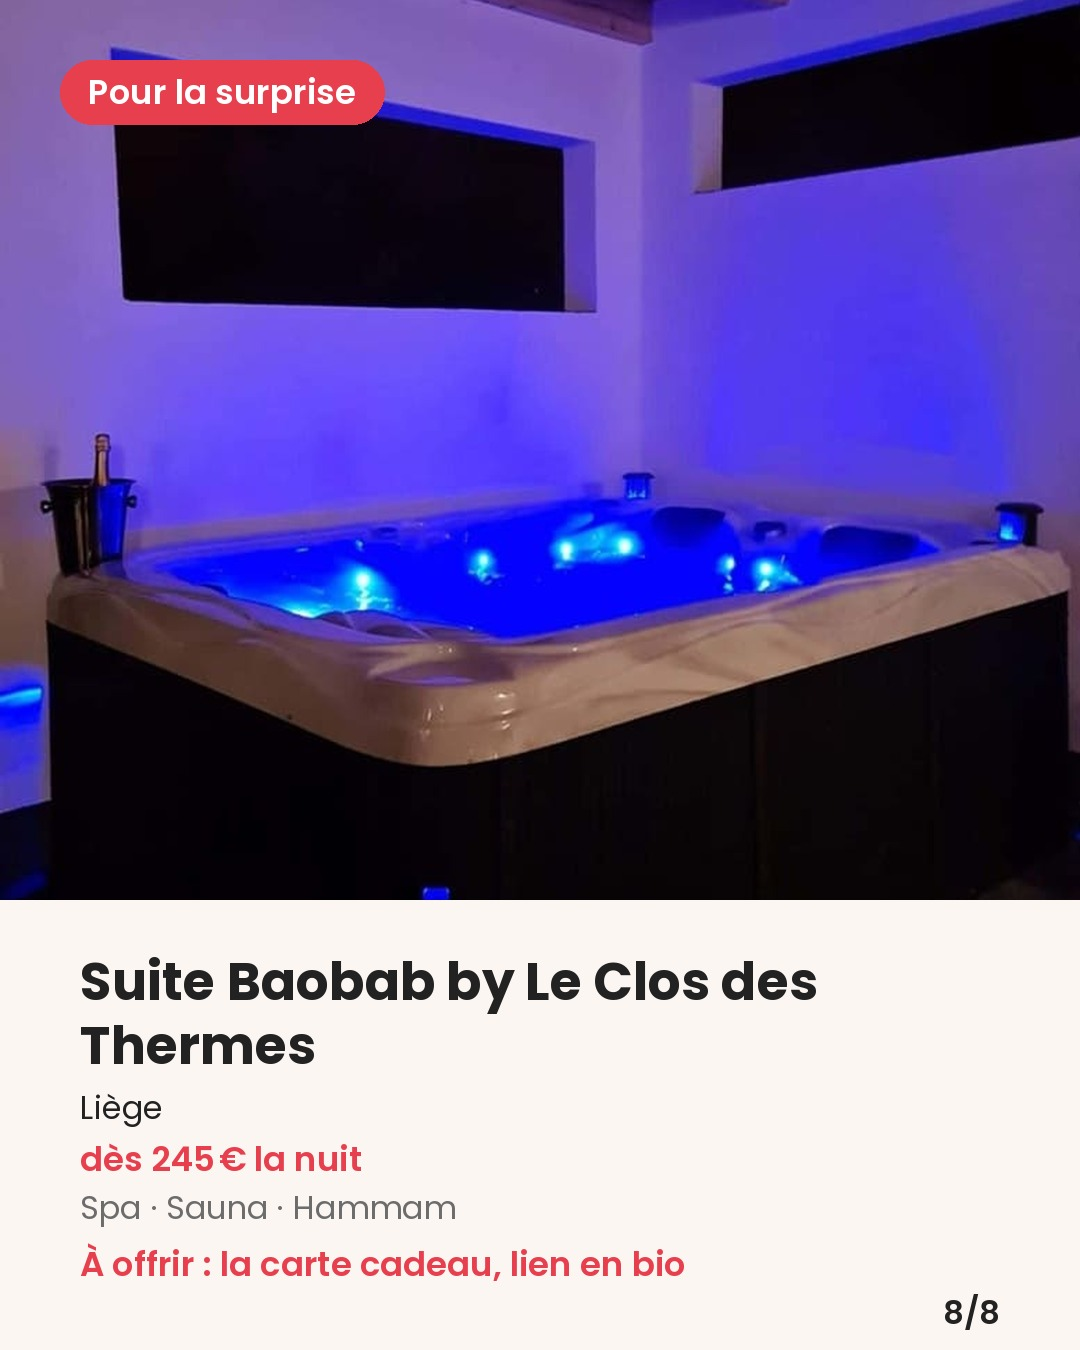
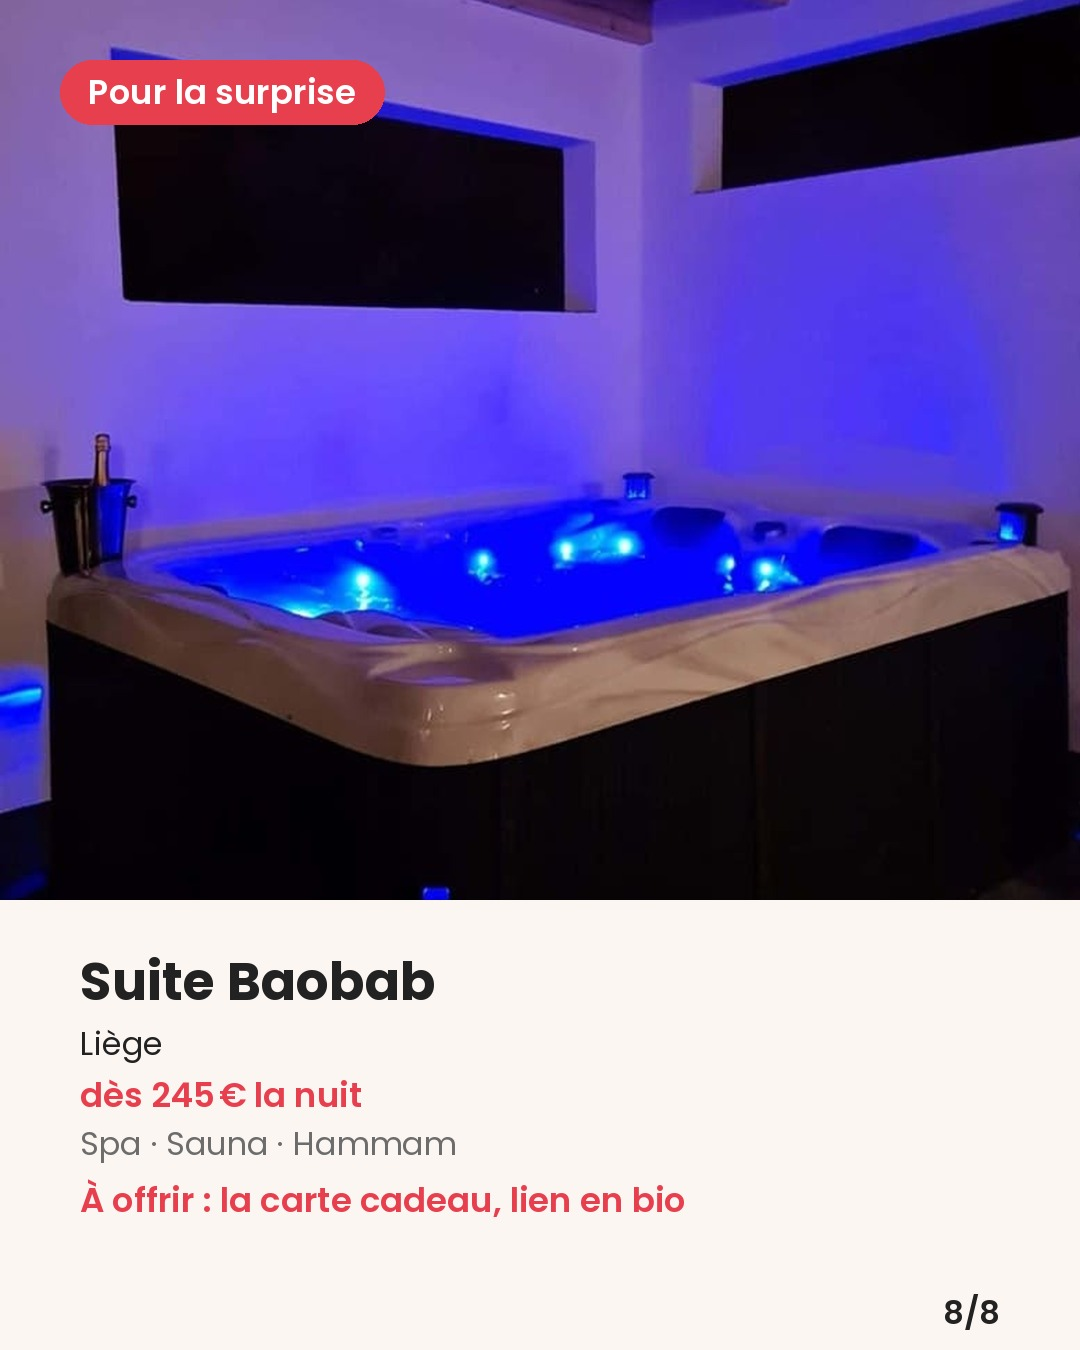
J4 v5 : 7 moteurs notés 9/10, galerie v3, journal
Claude-Session: https://claude.ai/code/session_01UXhdvpytnNTyQfYDMgSLFL

Changed region(s): [[0.0611, 0.7467, 0.6417, 0.9644], [0.2139, 0.9333, 0.6417, 0.9644], [0.3972, 0.7156, 0.7639, 0.7467]]

diff --git a/social/s5_production/produire.py b/social/s5_production/produire.py
@@ -246,7 +246,8 @@ def fabriquer(c, folder, catalogue, strat, session=None, marque=None):
         if fin:
             rang = cp.get("photo_logement", 1)
             photo = visuels.fetch(catalogue.images(fin["handle"], rang)[rang - 1], session)
-            slides.append(visuels.slide_lodging(photo, nom_court(fin), lieu_txt(fin), fin["prix_a_partir_de"],
+            slides.append(visuels.slide_lodging(photo, (c.get("noms_courts") or {}).get(fin["handle"], nom_court(fin)),
+                                                lieu_txt(fin), fin["prix_a_partir_de"],
                                                 visuels.order_equipements(fin["equipements"], phares),
                                                 f"{total}/{total}", badge=cp.get("badge_logement"),
                                                 mention=cp.get("mention_logement")))

diff --git a/social/donnees/lovenspa/instagram/journal.md b/social/donnees/lovenspa/instagram/journal.md
@@ -62,3 +62,12 @@ Stratégie déduite de la marque et du benchmark, non des posts passés : doc «
 - Résultat : 5 rendus PRET ; avertissements restants : montant 150 € (seuil de la sélection, source = stratégie) ; temps fort non évoqué par le mot « offrir » dans le concours.
 - À faire par un humain : écouter les musiques (voix non vérifiées) ; corriger la ville de La Villa Yucatan ; deux produits carte cadeau actifs (carte-cadeaux-love-room et carte-cadeau-lovenspa).
 - Galerie v2 : https://claude.ai/artifact/FkGZpdPZXhGHmNyYa4rJgL
+
+## 2026-11-12 — J4 v5 : 7 moteurs à 9/10
+- Consigne de Florian : ajuster jusqu'à 9/10 par moteur et vérifier qu'aucun moteur ne manque.
+- Moteurs manquants par rapport au doc de stratégie validé : stories quotidiennes et post mensuel de recrutement des hébergeurs ; ajoutés (contrats, stratégie, planificateur, rendu, contrôle, publication). Limites API : ni sticker (sondage, lien) ni repartage ; repartage possible seulement avec accord daté de l'auteur.
+- 5 passages de l'expert social media : v1 3 à 6/10 ; v2 6 à 8 ; v3 6 à 9 ; v4 8 à 9 ; v5 9/10 sur les 7 moteurs (Reel Nid, Reel Loft Spa, sélection, couple, concours, story, recrutement).
+- Corrections système issues des revues : verdict cohérent, audio 48 kHz, contrôle des chiffres à l'écran et en légende contre la description, montants sourcés, temps fort, revue visuelle obligatoire (photos sous droits, textes incrustés, personnes, alcool, doublons de la semaine), logement inédit pour le couple, stories après le post du jour (19:30), graphie des communes.
+- Photos écartées : Alexis (soupçon de retouche ou génération, non vérifiable), personne en sous-vêtements (Loft Spa), écran projetant un film d'animation (Suites B Spa), texte d'horaires incrusté (Gîte jacuzzi XXL).
+- À faire par un humain : écouter les musiques ; publier un règlement de concours ; mettre en ligne /pages/instagram à J7 ; corriger dans Shopify la ville de La Villa Yucatan et « Saint Etienne » (Loft Spa) ; demander à l'hébergeur d'Alexis si ses photos sont retouchées ou générées.
+- Galerie v3 : https://claude.ai/artifact/FkGZpdPZXhGHmNyYa4rJgL
